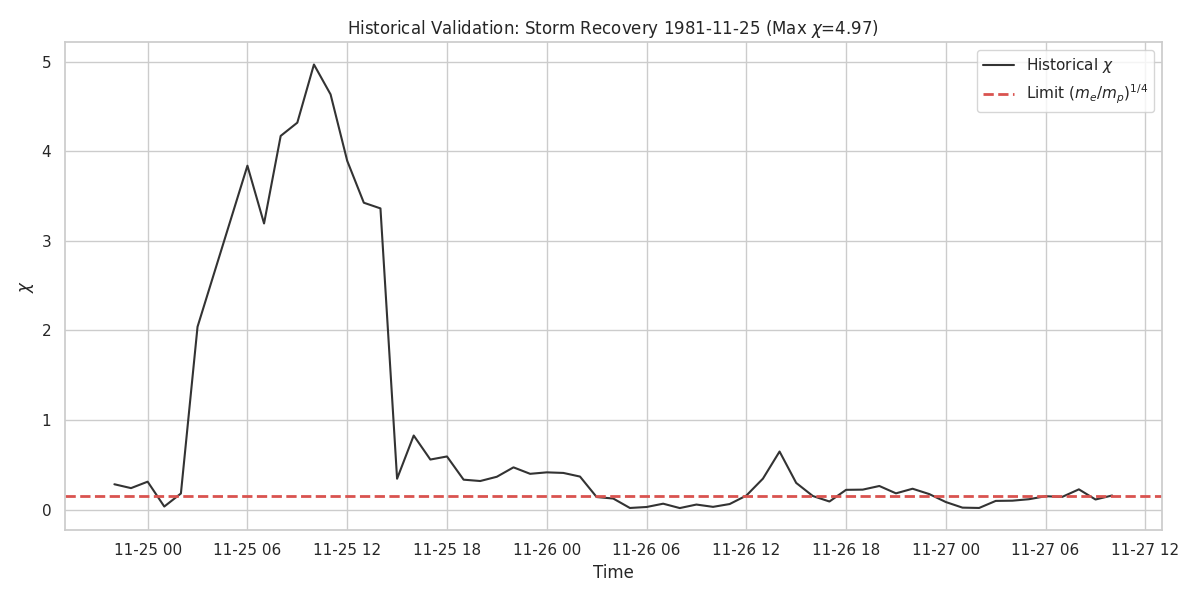
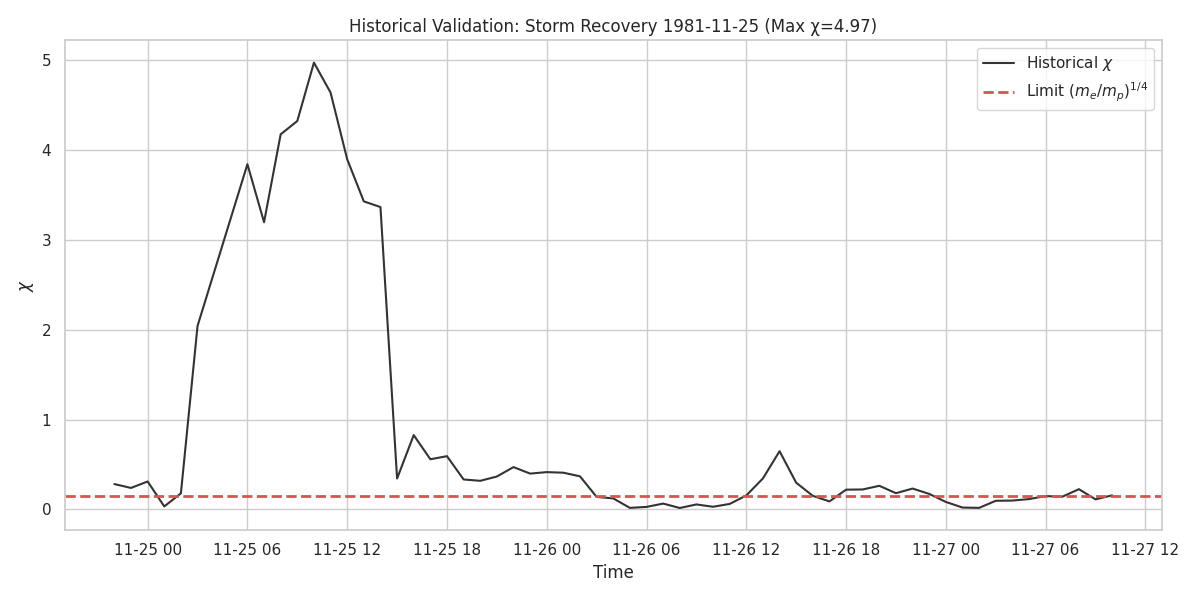
Add baseline epsilon guard and simplify plot title

diff --git a/scripts/verify_historical_recovery.py b/scripts/verify_historical_recovery.py
@@ -14,6 +14,7 @@ DATA_FILE = BASE_DIR / "results" / "historical_chi" / "historical_chi_1975_1985.
 OUTPUT_DIR = BASE_DIR / "historical_validation"
 OUTPUT_DIR.mkdir(exist_ok=True)
 TOP_CANDIDATES = 100
+BASELINE_EPSILON = 1e-6
 
 
 def load_data() -> pd.DataFrame:
@@ -26,6 +27,7 @@ def load_data() -> pd.DataFrame:
         if {"B_total_nT", "B_baseline_nT"}.issubset(df.columns):
             print("Computing chi from B_total_nT and B_baseline_nT...")
             baseline = df["B_baseline_nT"].replace(0, np.nan)
+            baseline = baseline.mask(baseline.abs() < BASELINE_EPSILON)
             df["chi"] = np.abs(df["B_total_nT"] - baseline) / baseline
         else:
             raise ValueError("Expected chi or B_total_nT/B_baseline_nT columns in dataset.")
@@ -67,7 +69,7 @@ def plot_recovery(df: pd.DataFrame, events: list[pd.Series]) -> None:
         plt.plot(storm_data["timestamp"], storm_data["chi"], color="#333333", linewidth=1.5, label=r"Historical $\chi$")
         plt.axhline(y=0.1528, color="#d9534f", linestyle="--", linewidth=2, label=r"Limit $(m_e/m_p)^{1/4}$")
 
-        plt.title(f"Historical Validation: Storm Recovery {event_time.date()} (Max $\\chi$={event['chi']:.2f})")
+        plt.title(f"Historical Validation: Storm Recovery {event_time.date()} (Max χ={event['chi']:.2f})")
         plt.ylabel(r"$\chi$")
         plt.xlabel("Time")
         plt.legend()
